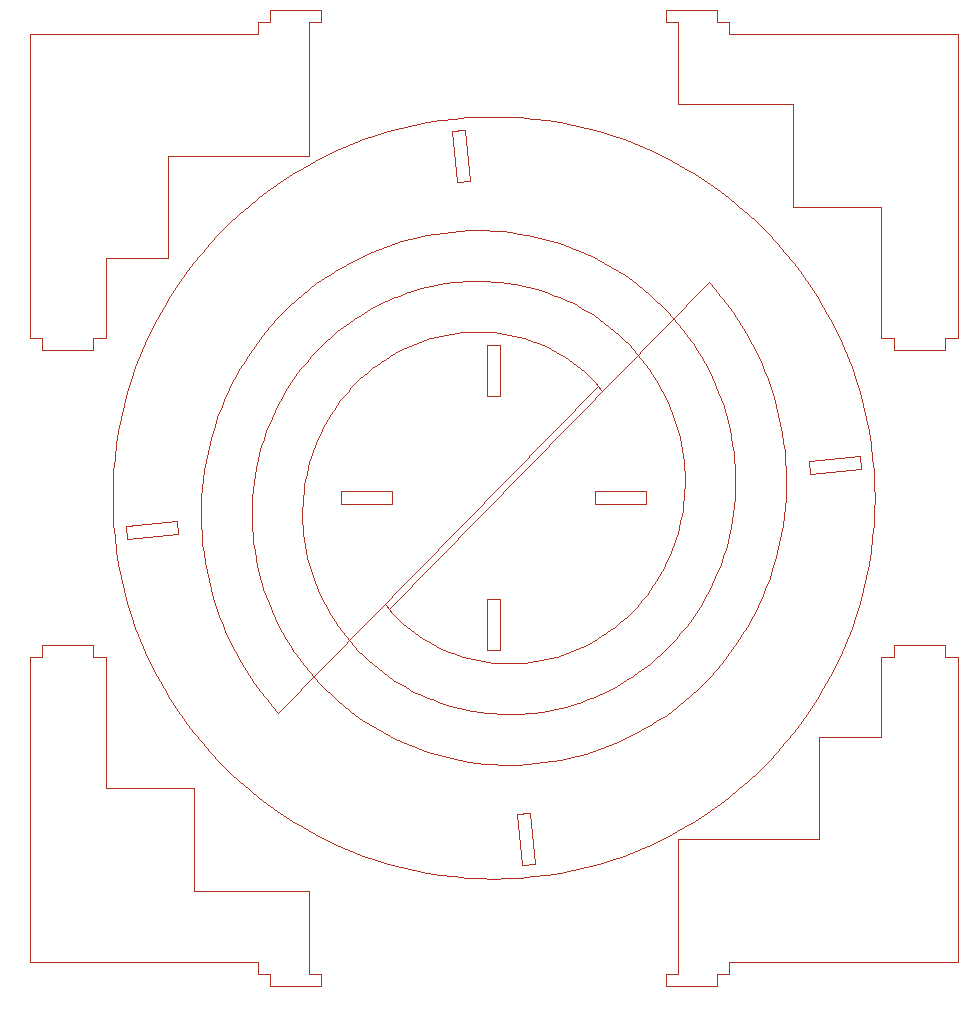
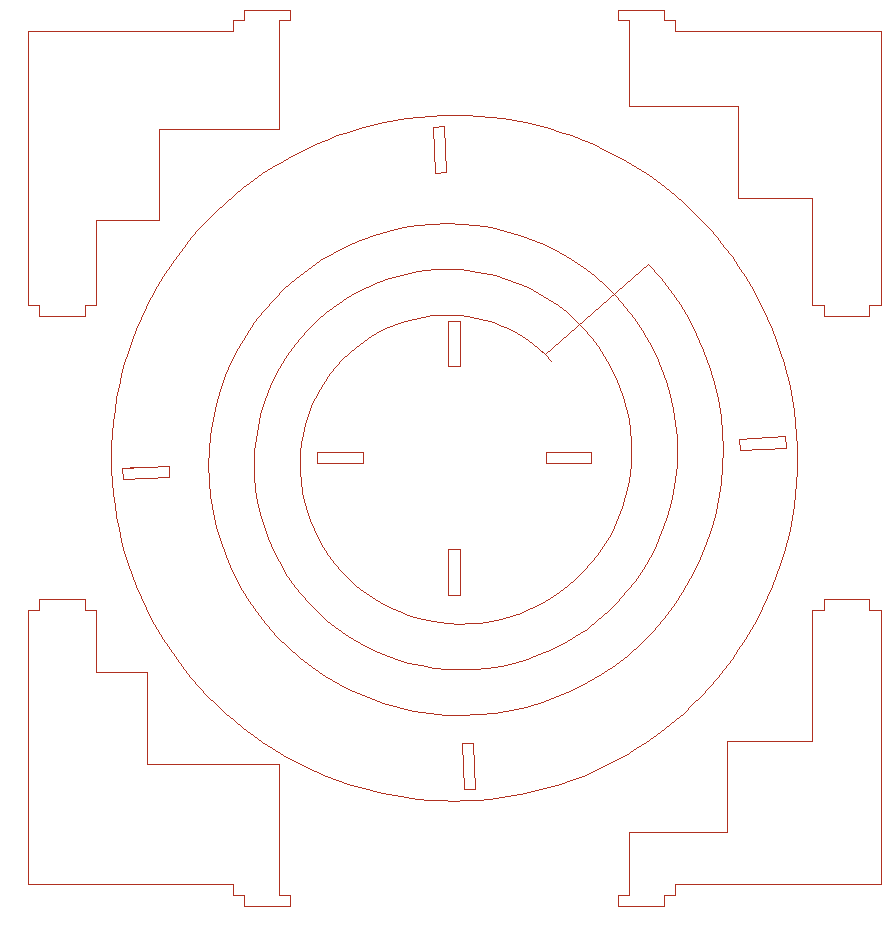
orpot: single spiral (n_spirals=1) + layout-overlap guard
- n_spirals=1: one spiral instead of the double helix. Same arm width, so the
  cut advances ramp_w/rev (not 2*ramp_w) -> 3 turns instead of 1.5, a ~2x longer
  single arm. For a given pot height that halves the bend per unit length =
  gentler radius, so the MDF is far less likely to delaminate when stretched.
- mdf_3mm profile: 500 mm/min x2 passes (machine-tested: 350x2 cut through but
  was overkill, 350x1 not quite enough).
- Guard against a too-small layout_side silently fusing a rib into the disc:
  orpot.scad echoes EXPECT_CLOSED (=1+3*n_ribs); orpot_gcode.py counts closed
  outlines and errors out with a fix hint if any parts overlap. (<=240 fuses a
  rib; layout_side=245 is clean for the 7.5" disc.)

diff --git a/orpot/orpot_gcode.py b/orpot/orpot_gcode.py
@@ -114,6 +114,23 @@ def main() -> int:
     )
     combined.write_text(svg.replace("</svg>", polylines + "\n</svg>"))
 
+    # guard: if parts overlap in the layout they fuse into one outline (a rib
+    # merges into the disc). Detect it by comparing the closed-loop count to what
+    # the .scad expects, so a too-small layout_side can't silently ruin a cut.
+    m = re.search(r'"EXPECT_CLOSED",\s*(\d+)', proc.stderr)
+    if m:
+        sys.path.insert(0, str(DIR))
+        import svg2laser as _s
+
+        closed = sum(1 for _, c in _s.svg_subpaths(combined.read_text())[0] if c)
+        expect = int(m.group(1))
+        if closed < expect:
+            raise SystemExit(
+                f"parts overlap: found {closed} closed outlines, expected {expect} "
+                "— a rib is fused into the disc. Increase layout_side in orpot.scad "
+                "(>=242 for the default disc) and re-run."
+            )
+
     # 4: hand off to svg2laser (open polylines -> single-kerf; closed -> outline)
     cmd = [
         sys.executable,
